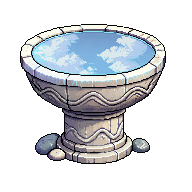
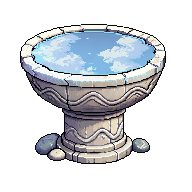
Frostpoint and the Stillwater Mirror breathe
Both shipped three idle frames identical to their base painting: the animator
returns a near-still loop for an object at rest, and lock_tower_frames then
erased what little moved. PixelLab was asked again and returned 36-83 moving
pixels, so the loops are authored from the paintings by
tools/paint_still_idle.py: the crystal spear pulses to a cold halo with a
glint down the facets and frost motes off the crown, and the reflection
ripples as a travelling wobble with glints winking on the water. Frame 0 is
the painting and every change is zero there, so the loop closes on it and the
foot never moves.

lock_tower_frames skips these idles (AUTHORED_IDLE): run over them it erased
3,959 of the Mirror's 3,962 moving pixels.

diff --git a/tools/paint_still_idle.py b/tools/paint_still_idle.py
@@ -1,0 +1,189 @@
+"""Author an idle loop for a tower whose motion is too small for the animator.
+
+PixelLab's animator treats "an object at rest" as nearly still: asked for a
+glowing crystal or a reflecting pool it returns a loop that moves thirty to
+eighty pixels, and `lock_tower_frames.py` - correctly - reads that as
+re-rendering noise and erases it. Frostpoint and the Stillwater Mirror shipped
+three idle frames identical to their base painting for exactly that reason
+(owner report, 2026-09-25: "Gen the idle animations for those 2 towers").
+
+The motion both want is specific and small in area, so it is authored here from
+the base painting itself rather than generated:
+
+- Frostpoint: the crystal spear pulses (brighter, then a cold halo, then back),
+  and a glint slides down the ice facets over the three frames.
+- Stillwater Mirror: the reflection ripples as a travelling wobble across its
+  rows, the sky in it sways a pixel, and small glints wink on the water.
+
+Frame 0 is the painting and is not written: the loader hands it back as the
+first frame, and every displacement here is zero at t = 0, so the loop closes on
+the base exactly. Only pixels of the moving part are touched, so the silhouette,
+the stone and the iron are the painting's own and the foot never moves.
+
+    python tools/paint_still_idle.py [--out DIR] [--only frostpoint,stillwater_mirror]
+"""
+import argparse, math, os
+import numpy as np
+from PIL import Image
+
+ROOT = os.path.join(os.path.dirname(os.path.abspath(__file__)), "..", "game", "art", "towers")
+FRAMES = 3   # continuation frames; frame 0 is the base painting
+
+
+def load(path):
+    return np.asarray(Image.open(path).convert("RGBA")).astype(np.float64)
+
+
+def save(arr, path):
+    Image.fromarray(np.clip(np.round(arr), 0, 255).astype(np.uint8), "RGBA").save(path)
+
+
+def phase(t):
+    # 0 at the base frame, rising through 1 and 2 and falling at 3.
+    return (1.0 - math.cos(2.0 * math.pi * t / (FRAMES + 1))) / 2.0
+
+
+def frostpoint(base):
+    out = []
+    a = base[..., 3]
+    r, g, b = base[..., 0], base[..., 1], base[..., 2]
+    lum = 0.3 * r + 0.59 * g + 0.11 * b
+    ys, xs = np.nonzero(a > 32)
+    top = ys.min()
+    # The spear: the narrow crystal above the tower's crown.
+    spear = np.zeros(a.shape, bool)
+    spear[top:top + 34, 84:103] = True
+    spear &= (a > 32) & (b > r + 10) & (lum > 110)
+    # Ice facets: bright, blue, and not the iron bands.
+    ice = (a > 32) & (b > r + 25) & (lum > 125)
+    h, w = a.shape
+    yy, xx = np.mgrid[0:h, 0:w]
+    # Where the motes start: just outside the crown's shoulders, either side.
+    motes = [(64, top + 50), (122, top + 48), (72, top + 30), (114, top + 31), (84, top + 22)]
+    for t in range(1, FRAMES + 1):
+        f = base.copy()
+        p = phase(t)
+        # The pulse: the crystal brightens toward white-cyan.
+        lift = 0.55 * p
+        for c, tint in ((0, 210.0), (1, 250.0), (2, 255.0)):
+            f[..., c] = np.where(spear, f[..., c] + (tint - f[..., c]) * lift, f[..., c])
+        # A cold halo one pixel out from the spear on the peak frame only,
+        # nearly white: a mid-alpha tint over a warm ground reads as grey fuzz
+        # rather than light (photographed, 2026-09-25).
+        if p > 0.8:
+            grown = spear.copy()
+            grown[1:, :] |= spear[:-1, :]
+            grown[:-1, :] |= spear[1:, :]
+            grown[:, 1:] |= spear[:, :-1]
+            grown[:, :-1] |= spear[:, 1:]
+            halo = grown & (a <= 32)
+            f[..., 0] = np.where(halo, 225.0, f[..., 0])
+            f[..., 1] = np.where(halo, 248.0, f[..., 1])
+            f[..., 2] = np.where(halo, 255.0, f[..., 2])
+            f[..., 3] = np.where(halo, 150.0, f[..., 3])
+        # The glint: a diagonal band sliding down the facets, one step a frame,
+        # with a four-point sparkle where it crosses the left face.
+        centre = top + 44 + (t - 1) * 44
+        band = np.abs((yy - centre) - (xx - 93) * 0.55) < 3.5
+        glint = band & ice & ~spear
+        for c, tint in ((0, 240.0), (1, 253.0), (2, 255.0)):
+            f[..., c] = np.where(glint, f[..., c] + (tint - f[..., c]) * 0.8, f[..., c])
+        # The ice is already near white (mean luminance 194), so a lighter band
+        # alone has nothing to read against. A deeper blue trailing edge under it
+        # is what makes a streak of light on a pale surface visible.
+        edge = (np.abs((yy - centre) - (xx - 93) * 0.55 - 4.5) < 1.5) & ice & ~spear
+        for c, tint in ((0, 96.0), (1, 168.0), (2, 226.0)):
+            f[..., c] = np.where(edge, f[..., c] + (tint - f[..., c]) * 0.45, f[..., c])
+        row_y = int(centre - 12 * 0.55)
+        if 0 <= row_y < h:
+            cols = np.nonzero(ice[row_y, :93])[0]
+            if cols.size:
+                sx = int(cols[cols.size // 2])
+                for ox, oy, k in ((0, 0, 1.0), (1, 0, 0.7), (-1, 0, 0.7), (0, 1, 0.7), (0, -1, 0.7)):
+                    x, y = sx + ox, row_y + oy
+                    if 0 <= x < w and 0 <= y < h and a[y, x] > 32:
+                        f[y, x, :3] = f[y, x, :3] + (255.0 - f[y, x, :3]) * k
+        # Frost motes lifting off the crown: born on the first frame, risen on
+        # the second, fading on the third, and gone on the base frame - so they
+        # read on any ground, which a streak on pale ice does not.
+        for i, (mx, my) in enumerate(motes):
+            rise = 7 * (t - 1) + (i % 2) * 2
+            y, x = my - rise, mx + ((t + i) % 2)
+            alpha = (230.0, 200.0, 110.0)[t - 1]
+            if 0 <= y < h and 0 <= x < w and a[y, x] <= 32:
+                f[y, x] = (232.0, 249.0, 255.0, alpha)
+                for ox, oy in ((1, 0), (-1, 0), (0, 1), (0, -1)):
+                    inside = 0 <= y + oy < h and 0 <= x + ox < w
+                    if inside and a[y + oy, x + ox] <= 32 and f[y + oy, x + ox, 3] < alpha * 0.35:
+                        f[y + oy, x + ox] = (210.0, 240.0, 255.0, alpha * 0.35)
+        out.append(f)
+    return out
+
+
+def stillwater_mirror(base):
+    out = []
+    a = base[..., 3]
+    r, g, b = base[..., 0], base[..., 1], base[..., 2]
+    h, w = a.shape
+    yy, xx = np.mgrid[0:h, 0:w]
+    # The water is the ellipse inside the rim; within it, the blue and the
+    # clouds are water and the beige stone of the rim is not.
+    blue = (a > 32) & (b > r + 25) & (b > g + 5) & (yy < 90)
+    bys, bxs = np.nonzero(blue)
+    cx, cy = (bxs.min() + bxs.max()) / 2.0, (bys.min() + bys.max()) / 2.0
+    rx, ry = (bxs.max() - bxs.min()) / 2.0, (bys.max() - bys.min()) / 2.0
+    inside = ((xx - cx) / rx) ** 2 + ((yy - cy) / ry) ** 2 <= 1.0
+    water = inside & (a > 32) & (b >= r - 4)
+    rng = np.random.default_rng(20260925)
+    glints = [(int(cx + rng.uniform(-0.7, 0.7) * rx), int(cy + rng.uniform(-0.6, 0.6) * ry))
+              for _ in range(9)]
+    for t in range(1, FRAMES + 1):
+        f = base.copy()
+        s = math.sin(2.0 * math.pi * t / (FRAMES + 1))
+        c = phase(t)
+        for y in range(h):
+            row = np.nonzero(water[y])[0]
+            if row.size < 3:
+                continue
+            k = 2.0 * math.pi * (y - cy) / 9.0
+            dx = int(round(1.6 * (s * math.sin(k) + c * math.cos(k))))
+            if dx == 0:
+                continue
+            src = np.clip(row - dx, row.min(), row.max())
+            # Only sample the water itself, so the rim never smears inward.
+            src = np.where(water[y, src], src, row)
+            f[y, row, :3] = base[y, src, :3]
+        # Glints wink on the water, three a frame, never on the base frame.
+        for i, (gx, gy) in enumerate(glints):
+            if i % FRAMES != t - 1:
+                continue
+            for ddx in (-1, 0, 1):
+                x = gx + ddx
+                if 0 <= x < w and water[gy, x]:
+                    k = 0.85 if ddx == 0 else 0.45
+                    f[gy, x, :3] = f[gy, x, :3] + (np.array([245.0, 252.0, 255.0]) - f[gy, x, :3]) * k
+        out.append(f)
+    return out
+
+
+RECIPES = {"frostpoint": frostpoint, "stillwater_mirror": stillwater_mirror}
+
+
+def main():
+    ap = argparse.ArgumentParser()
+    ap.add_argument("--out", default=None)
+    ap.add_argument("--only", default=None)
+    args = ap.parse_args()
+    only = set(args.only.split(",")) if args.only else set(RECIPES)
+    for tid, recipe in RECIPES.items():
+        if tid not in only:
+            continue
+        base = load(os.path.join(ROOT, "tower_%s.png" % tid))
+        for i, frame in enumerate(recipe(base), start=1):
+            name = "tower_%s_idle_%02d.png" % (tid, i)
+            save(frame, os.path.join(args.out or ROOT, name))
+            print("wrote", name)
+
+
+if __name__ == "__main__":
+    main()

diff --git a/tools/lock_tower_frames.py b/tools/lock_tower_frames.py
@@ -24,6 +24,13 @@ ALPHA = 32          # below this a pixel is transparent
 COLOUR_T = 48.0     # RGB distance a moving thing exceeds; smoothing and re-rendering do not
 MIN_BLOB = 24       # a difference smaller than this many pixels is noise
 SEARCH = 6          # pixels of drift to search for
+# Idle loops authored from the painting by `paint_still_idle.py` rather than
+# generated. Their motion is small by design - a crystal's pulse, a ripple on a
+# reflection, a few motes - and this lock reads exactly that as re-rendering
+# noise: run over them it erased 3,959 of the Mirror's 3,962 moving pixels,
+# which is how both towers shipped a loop identical to the painting (2026-09-25).
+# Their attack frames are generated and are still locked.
+AUTHORED_IDLE = {"frostpoint", "stillwater_mirror"}
 
 
 def load(path):
@@ -96,6 +103,10 @@ def main():
             continue
         base = load(base_path)
         for frame_path in sorted(glob.glob(os.path.join(root, f"tower_{tid}_*_*.png"))):
+            if tid in AUTHORED_IDLE and "_idle_" in os.path.basename(frame_path):
+                if args.report:
+                    print(f"{os.path.basename(frame_path):36s} authored, left as it is")
+                continue
             frame = load(frame_path)
             if frame.shape != base.shape:
                 print(f"skip {os.path.basename(frame_path)}: size differs", file=sys.stderr)
